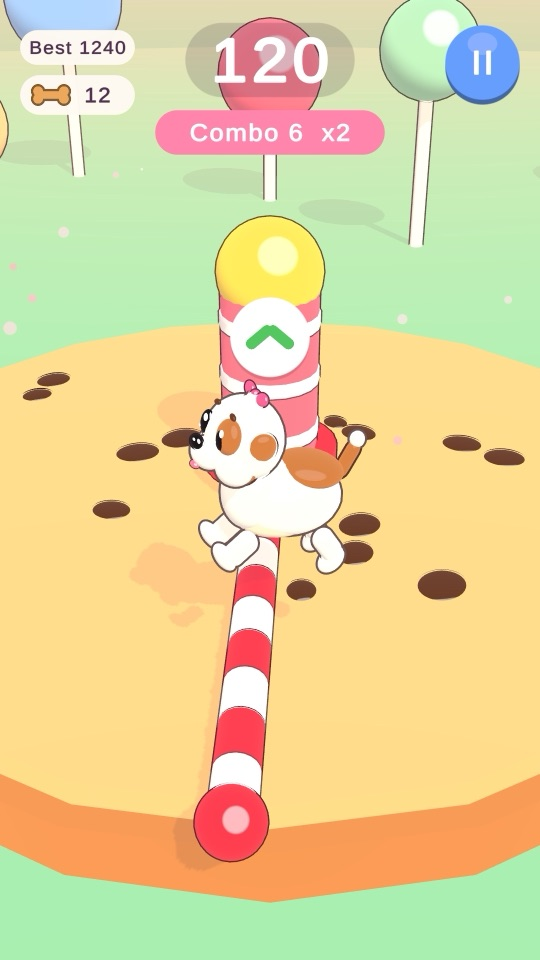
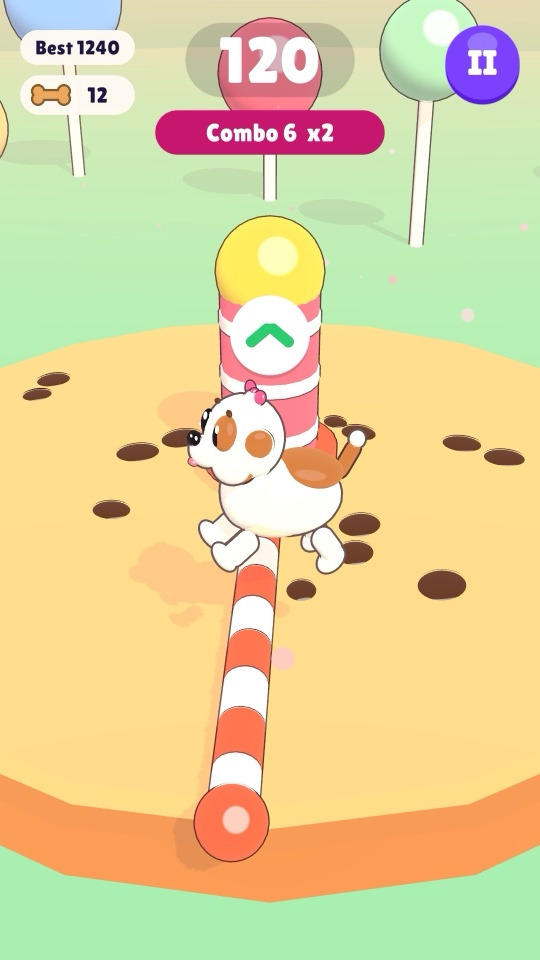
Fix stretched screenshots in "A look inside"; Cookie's new look
The img width/height attributes set a 960px height that overrode aspect-ratio, so each
180px-wide screenshot was drawn 960px tall. height: auto lets the 9:16 ratio apply on every
game page. Cookie's screenshots now show the Hichgah colours and Lilita One from 1.0.0.

diff --git a/cookie-jump-and-duck/index.html b/cookie-jump-and-duck/index.html
@@ -47,7 +47,7 @@
 
   <h2>A look inside</h2>
   <div class="shots">
-    <figure><img src="media/1_jump.jpg" alt="Cookie jumping over a red-and-white candy bar" loading="lazy" width="540" height="960"><figcaption>Jump the low bars</figcaption></figure>
+    <figure><img src="media/1_jump.jpg" alt="Cookie jumping over an orange-and-white candy bar" loading="lazy" width="540" height="960"><figcaption>Jump the low bars</figcaption></figure>
     <figure><img src="media/3_map.jpg" alt="The adventure map in Cookie Kitchen with stars on finished levels" loading="lazy" width="540" height="960"><figcaption>Follow the adventure</figcaption></figure>
     <figure><img src="media/4_level_complete.jpg" alt="Level complete with three stars and treats earned" loading="lazy" width="540" height="960"><figcaption>Earn stars and treats</figcaption></figure>
     <figure><img src="media/5_closet.jpg" alt="Cookie trying on heart glasses in the closet" loading="lazy" width="540" height="960"><figcaption>Dress up Cookie</figcaption></figure>

diff --git a/style.css b/style.css
@@ -160,7 +160,11 @@ ul.games {
 .shots img {
   display: block;
   width: 180px;
+  /* The width and height attributes reserve space while loading; without this, height="960" wins
+     and the screenshot is stretched to 180x960. */
+  height: auto;
   aspect-ratio: 9 / 16;
+  object-fit: cover;
   border-radius: 16px;
   border: 1px solid var(--line);
 }
